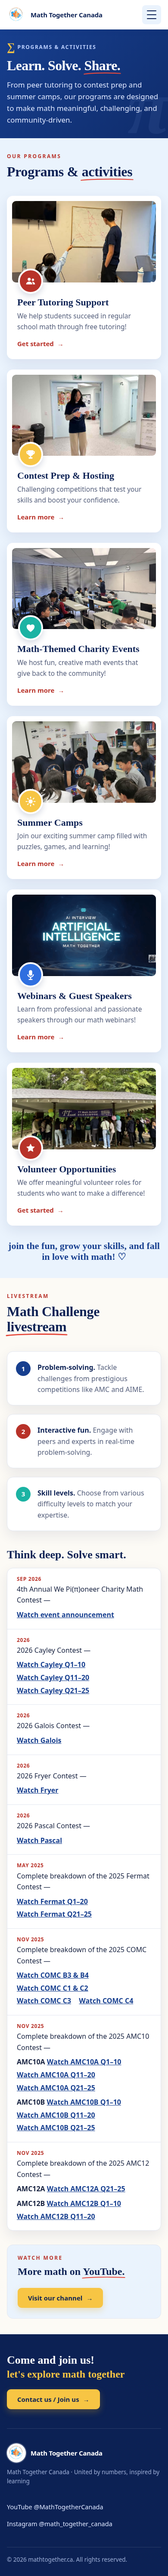
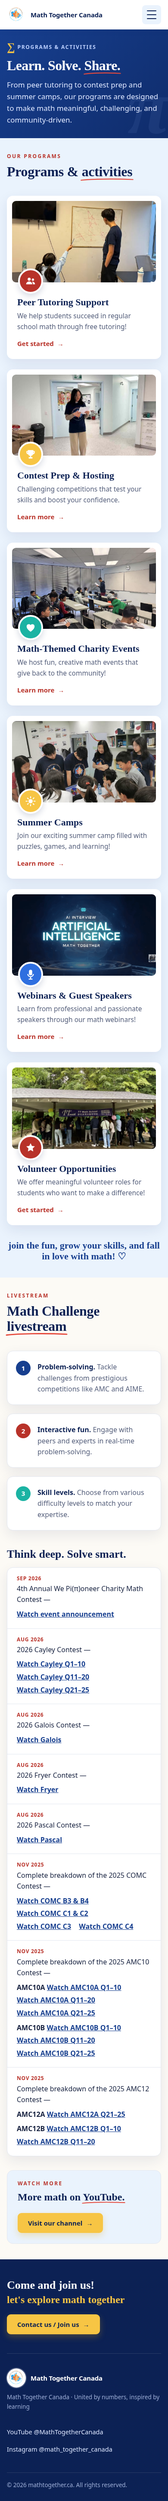
Enlarge homepage labels and update contest recordings and dates

Changed region(s): [[0.0308, 0.0, 0.9538, 0.9974]]

diff --git a/programs.html b/programs.html
@@ -338,7 +338,7 @@
       </div>
      </li>
      <li id="session-cayley-2026" data-video-status="owner-confirmed">
-      <span><time datetime="2026">2026</time></span>
+      <span><time datetime="2026-08">Aug 2026</time></span>
       <div class="session-content">
       2026 Cayley Contest —
        <div class="session-video-links">
@@ -351,7 +351,7 @@
       </div>
      </li>
      <li id="session-galois-2026" data-video-status="owner-confirmed">
-      <span><time datetime="2026">2026</time></span>
+      <span><time datetime="2026-08">Aug 2026</time></span>
       <div class="session-content">
       2026 Galois Contest —
        <div class="session-video-links">
@@ -362,7 +362,7 @@
       </div>
      </li>
      <li id="session-fryer-2026" data-video-status="owner-confirmed">
-      <span><time datetime="2026">2026</time></span>
+      <span><time datetime="2026-08">Aug 2026</time></span>
       <div class="session-content">
       2026 Fryer Contest —
        <div class="session-video-links">
@@ -373,24 +373,12 @@
       </div>
      </li>
      <li id="session-pascal-2026" data-video-status="owner-confirmed">
-      <span><time datetime="2026">2026</time></span>
+      <span><time datetime="2026-08">Aug 2026</time></span>
       <div class="session-content">
       2026 Pascal Contest —
        <div class="session-video-links">
         <p>
          <a href="https://www.youtube.com/watch?v=CUvSTc-RhGc" target="_blank" rel="noopener noreferrer" aria-label="Watch Pascal (opens in a new tab)">Watch Pascal</a>
-        </p>
-       </div>
-      </div>
-     </li>
-     <li id="session-fermat-2025" data-video-status="owner-confirmed">
-      <span><time datetime="2025-05">May 2025</time></span>
-      <div class="session-content">
-      Complete breakdown of the 2025 Fermat Contest —
-       <div class="session-video-links">
-        <p>
-         <a href="https://www.youtube.com/watch?v=a3Yr2WHDnII" target="_blank" rel="noopener noreferrer" aria-label="Watch Fermat Q1–20 (opens in a new tab)">Watch Fermat Q1–20</a>
-         <a href="https://www.youtube.com/watch?v=It0yMNFz8u8" target="_blank" rel="noopener noreferrer" aria-label="Watch Fermat Q21–25 (opens in a new tab)">Watch Fermat Q21–25</a>
         </p>
        </div>
       </div>

diff --git a/home.css b/home.css
@@ -227,3 +227,12 @@ linear-gradient(145deg,#173f8f,#0f2c6b);background-size:28px 28px;color:#fff}
 @media (max-width: 600px) {
   .home-faq { padding-top: 44px; padding-bottom: 48px; }
 }
+
+/* Homepage section labels share the scale of the section headings. */
+.home-page main .kicker, .home-page main .home-kicker {
+  font-size: clamp(32px, 3.6vw, 44px);
+  line-height: 1.15;
+  letter-spacing: .01em;
+  overflow-wrap: break-word;
+}
+.home-latest-head > div, .home-faq .section-head > div { min-width: 0; }

diff --git a/tests/content_check.py b/tests/content_check.py
@@ -113,12 +113,13 @@ for name, expected in expected_bios.items():
 
 sessions_old = original('programs.html').select('.sessions li')
 sessions_new = pages['programs.html'].select('.sessions > li')
-assert len(sessions_old) == 9 and len(sessions_new) == 9
-# Only the four sessions explicitly removed by the user may be removed.
+assert len(sessions_old) == 9 and len(sessions_new) == 8
+# Only the five sessions explicitly removed by the user may be removed.
 removed_descriptions = [
     'Community discussion after the Math Kangaroo Contest, with CMO/CJMO qualifiers',
     'Interactive Q&A session: your burning questions, answered by math experts',
     'Complete breakdown of the 2024 AMC10A Contest',
+    'Complete breakdown of the 2025 Fermat Contest',
     'Waterloo Pascal & Fermat solutions, before official answers are out',
 ]
 retained_descriptions = []
@@ -126,12 +127,12 @@ for old in sessions_old:
     description = ''.join(str(t) for t in old.find_all(string=True, recursive=False)).strip().rstrip('—').strip()
     if description not in removed_descriptions:
         retained_descriptions.append(description)
-assert len(retained_descriptions) == 5
+assert len(retained_descriptions) == 4
 for description in retained_descriptions:
     assert any(description in text(session) for session in sessions_new), description
 for removed in removed_descriptions:
     assert removed not in text(pages['programs.html'])
-assert not pages['programs.html'].select('#session-kangaroo-2025, #session-questions-2025, #session-amc10a-2024, #session-waterloo-2025, .sessions .recording-pending')
+assert not pages['programs.html'].select('#session-kangaroo-2025, #session-questions-2025, #session-amc10a-2024, #session-waterloo-2025, #session-fermat-2025, .sessions .recording-pending')
 for session in sessions_new:
     assert session.select_one('time[datetime]')
     assert session.select('a'), session['id']
@@ -146,9 +147,6 @@ expected_comc = ['9343O-spIAI', '24KYT2FrM_Q', 'WeVz3kbnq4U', 'kObBbe_cfIE']
 expected_amc10 = ['WFVfabjtnb4', 'GCJ6smMF7io', '2AHhJ-EjRn4', 'quRP3FsrB6k', 'TiIWCAKGZQg', 'VqWHUufAXvs']
 assert [a['href'] for a in pages['programs.html'].select('#session-comc-2025 a')] == ['https://www.youtube.com/watch?v='+video for video in expected_comc]
 assert [a['href'] for a in pages['programs.html'].select('#session-amc10-2025 a')] == ['https://www.youtube.com/watch?v='+video for video in expected_amc10]
-expected_fermat = ['a3Yr2WHDnII', 'It0yMNFz8u8']
-for session_id in ['session-fermat-2025']:
-    assert [a['href'] for a in pages['programs.html'].select('#'+session_id+' a')] == ['https://www.youtube.com/watch?v='+video for video in expected_fermat]
 new_sessions = {
     'session-cayley-2026': ['v-AzSSLHm98', 'UXjvfT29EQA', 'V7MscLlK4pI'],
     'session-galois-2026': ['3QLrRolXlAw'],
@@ -159,8 +157,8 @@ for session_id, videos in new_sessions.items():
     session = pages['programs.html'].select_one('#'+session_id)
     assert session is not None, session_id
     assert [a['href'] for a in session.select('a')] == ['https://www.youtube.com/watch?v='+video for video in videos]
-    assert session.select_one('time')['datetime'] == '2026', 'Do not invent a month for the new 2026 recordings'
-    assert text(session.select_one('time')) == '2026'
+    assert session.select_one('time')['datetime'] == '2026-08', 'The owner supplied August 2026 for these recordings'
+    assert text(session.select_one('time')) == 'Aug 2026'
 urls = [a['href'] for session in sessions_new for a in session.select('a')]
 assert len(urls) == len(set(urls)), 'Duplicate recording destinations'
 expected_amc12 = ['nXs682bcsNQ', 'MeyLmhwl-FA', 'PeSHSVGMpNI']
@@ -187,4 +185,4 @@ ordered = sorted(data, key=lambda s:s['sort_name'].casefold())
 assert [s['data-supporter-id'] for s in supporters] == [s['id'] for s in ordered]
 assert len({s['id'] for s in data}) == 6
 subprocess.run(['python3', 'scripts/render_supporters.py', '--check'], cwd=root, check=True)
-print('PASS: local files/anchors, navigation, FAQ preservation, profile text/photos/positions, 17 News records and date precision, nine confirmed sessions, six supporters and homepage statistics.')
+print('PASS: local files/anchors, navigation, FAQ preservation, profile text/photos/positions, 17 News records and date precision, eight confirmed sessions, six supporters and homepage statistics.')

diff --git a/tests/browser_check.py b/tests/browser_check.py
@@ -42,6 +42,7 @@ with sync_playwright() as p:
     recaps.locator('summary').focus();page.keyboard.press('Enter');assert recaps.get_attribute('open') is not None
     assert recaps.locator('a').count()==2
     page.keyboard.press('Space');assert recaps.get_attribute('open') is None
+    assert page.locator('#about .kicker, #featured-event .home-kicker, #our-programs .home-kicker, #latest-stories .home-kicker, #faq .kicker').evaluate_all('(es)=>es.length===5&&es.every(e=>parseFloat(getComputedStyle(e).fontSize)>=parseFloat(getComputedStyle(e.closest("section").querySelector("h2")).fontSize))'), (width,'Red section labels must be at least as large as the section headings')
     assert page.locator('#faq details').count()==5
     summary=page.locator('#faq summary').first
     summary.focus();page.keyboard.press('Enter');assert page.locator('#faq details').first.get_attribute('open') is not None
@@ -66,17 +67,17 @@ with sync_playwright() as p:
    if name in ['programs','news','team','get-involved']:
     assert page.locator('.page-hero-lede').evaluate('(e)=>Math.abs(e.getBoundingClientRect().width-e.closest(".page-hero-in").getBoundingClientRect().width)<1')
    if name=='programs':
-    assert page.locator('.sessions > li').count()==9
+    assert page.locator('.sessions > li').count()==8
     assert page.locator('#session-comc-2025 a').count()==4
     assert page.locator('#session-amc10-2025 a').count()==6
     assert page.locator('#session-amc12-2025 a').count()==3
-    assert page.locator('#session-fermat-2025 a').count()==2
     assert page.locator('#session-cayley-2026 a').count()==3
+    assert page.locator('#session-cayley-2026 time, #session-galois-2026 time, #session-fryer-2026 time, #session-pascal-2026 time').evaluate_all('(es)=>es.length===4&&es.every(e=>e.dateTime==="2026-08"&&e.textContent==="Aug 2026")')
     for session_id in ['session-galois-2026','session-fryer-2026','session-pascal-2026']:
      assert page.locator('#'+session_id+' a').count()==1
     assert page.locator('.sessions a').evaluate_all('(es)=>es.every(a=>a.target==="_blank"&&a.rel.includes("noopener")&&a.rel.includes("noreferrer"))')
     assert page.locator('#session-charity-2026 .session-content').evaluate('''(e)=>{const ranges=Array.from(e.childNodes).filter(n=>n.nodeType===Node.TEXT_NODE&&n.textContent.trim()).flatMap(n=>{const r=document.createRange();r.selectNodeContents(n);return Array.from(r.getClientRects());}).filter(r=>r.width>0&&r.height>0);return ranges.length>0&&e.querySelector('a').getBoundingClientRect().top>=Math.max(...ranges.map(r=>r.bottom));}'''), (width,'Charity recording link must start below its description')
-    assert not page.locator('#session-kangaroo-2025, #session-questions-2025, #session-amc10a-2024, #session-waterloo-2025, .sessions .recording-pending').count()
+    assert not page.locator('#session-kangaroo-2025, #session-questions-2025, #session-amc10a-2024, #session-waterloo-2025, #session-fermat-2025, .sessions .recording-pending').count()
     assert page.locator('.sessions a').evaluate_all('(es)=>es.every(a=>!a.href.includes("@MathTogetherCanada"))')
     assert page.locator('.session-content a').evaluate_all('(es)=>es.every(e=>{const r=e.getBoundingClientRect();return r.width>0&&r.left>=0&&r.right<=innerWidth;} )')
 

diff --git a/docs/video-link-audit.md b/docs/video-link-audit.md
@@ -4,23 +4,23 @@ Video actions open in a new tab using `target="_blank"` and `rel="noopener noref
 
 Reviewed on 2 Nov 2026 against `main` at `c0f98861a1978cc51f1f9540e3e53728d5742e93`.
 
-The official channel is [Math Together / @MathTogetherCanada](https://www.youtube.com/@MathTogetherCanada), also identified by YouTube's indexed channel result as [UCOPT02TMkuXp69XkobHyKDA](https://www.youtube.com/channel/UCOPT02TMkuXp69XkobHyKDA). Repository history back to the initial site uses the same original URLs. On 2 Nov 2026 the site owner supplied and confirmed the COMC, AMC10, Fermat, AMC12, Summer Camp Students’ Voices and Yingshan Xiao recording destinations. The owner confirmed the Kangaroo discussion and interactive Q&A content do not exist and requested removal of the 2024 AMC10A entry and the duplicate 2025 Waterloo Pascal/Fermat entry; all four were removed. The dedicated 2025 Fermat session remains. The owner also supplied six recordings for four new 2026 sessions: Cayley, Galois, Fryer and Pascal.
+The official channel is [Math Together / @MathTogetherCanada](https://www.youtube.com/@MathTogetherCanada), also identified by YouTube's indexed channel result as [UCOPT02TMkuXp69XkobHyKDA](https://www.youtube.com/channel/UCOPT02TMkuXp69XkobHyKDA). Repository history back to the initial site uses the same original URLs. On 2 Nov 2026 the site owner supplied and confirmed the COMC, AMC10, Fermat, AMC12, Summer Camp Students’ Voices and Yingshan Xiao recording destinations. The owner confirmed the Kangaroo discussion and interactive Q&A content do not exist and requested removal of the 2024 AMC10A entry, the duplicate 2025 Waterloo Pascal/Fermat entry and the dedicated 2025 Fermat session; all five were removed. The owner also supplied six recordings for four new 2026 sessions: Cayley, Galois, Fryer and Pascal.
 
-YouTube watch-page titles and indexed YouTube descriptions were checked. The official channel's Videos/Streams listing and oEmbed endpoints were throttled by the browsing service. Titles were available for the existing direct links, but playback, complete transcripts, and most exact publication dates were unavailable. A title match is not a claim that the linked video covers an entire contest. Partial coverage is explicit in the action label. Original date labels for the five retained event/session entries are kept and formatted; the four newly added 2026 sessions use year-only labels because no publication months were supplied or verified. These labels are not newly asserted video publication dates. Owner confirmation establishes the supplied recordings, while watch-page titles independently confirm the contest and question ranges. No upload dates were inferred from the supplied URLs.
+YouTube watch-page titles and indexed YouTube descriptions were checked. The official channel's Videos/Streams listing and oEmbed endpoints were throttled by the browsing service. Titles were available for the existing direct links, but playback, complete transcripts, and most exact publication dates were unavailable. A title match is not a claim that the linked video covers an entire contest. Partial coverage is explicit in the action label. Original date labels for the four retained event/session entries are kept and formatted; the owner supplied August 2026 for Cayley, Galois, Fryer and Pascal, so these four sessions display Aug 2026 with month-level machine dates. These labels are not newly asserted video publication dates. Owner confirmation establishes the supplied recordings, while watch-page titles independently confirm the contest and question ranges. No upload dates were inferred from the supplied URLs.
 
 ## Every Programs / Livestream entry
 
 | Entry (original session label) | Old URL | Proposed / implemented URL | Verification status and action |
 |---|---|---|---|
 | 4th Annual We Pi(π)oneer Charity Math Contest — Sep 2026 | https://youtu.be/YcqCzscEtQo | https://youtu.be/YcqCzscEtQo | Retained existing direct link. YouTube title is **We Pioneer 4th Charity Math Contest Coming Soon！** It is an announcement, so the action now says **Watch event announcement**. The action occupies its own line beneath the description, using the shared video-links layout. Exact upload date/playback not independently verified. |
-| Complete breakdown of the 2025 Fermat Contest — May 2025 | https://youtu.be/TA2mtv_Prxc | Q1–20: https://www.youtube.com/watch?v=a3Yr2WHDnII <br> Q21–25: https://www.youtube.com/watch?v=It0yMNFz8u8 | Corrected the old Euclid-content mismatch. Owner supplied both Fermat destinations; YouTube titles confirm **2025 Fermat Contest Questions 1 - 20** and **2025 Fermat Contest Questions 21 - 25**. Both question ranges are labeled explicitly. Exact publication dates unavailable; existing May label retained. |
+| Complete breakdown of the 2025 Fermat Contest — May 2025 | https://youtu.be/TA2mtv_Prxc | Removed at owner request | The owner requested removal of the complete 2025 Fermat session. Neither of its two recording links is displayed on the Programs page. Previously verified destinations remain in the historical audit below. |
 | Complete breakdown of the 2025 COMC Contest — Nov 2025 | https://youtu.be/GCJ6smMF7io | B3 & B4: https://www.youtube.com/watch?v=9343O-spIAI <br> C1 & C2: https://www.youtube.com/watch?v=24KYT2FrM_Q <br> C3: https://www.youtube.com/watch?v=WeVz3kbnq4U <br> C4: https://www.youtube.com/watch?v=kObBbe_cfIE | Owner supplied all four recordings on 2 Nov 2026 and confirmed the first recording covers **B3 & B4**, matching the YouTube title. All four COMC 2025 question ranges are confirmed. Original URL is AMC10A Q11–20 and now belongs under AMC10A. No fabricated publication dates. |
 | Complete breakdown of the 2025 AMC10 Contest — Nov 2025 | https://youtu.be/MeyLmhwl-FA | AMC10A Q1–10: https://www.youtube.com/watch?v=WFVfabjtnb4 <br> AMC10A Q11–20: https://www.youtube.com/watch?v=GCJ6smMF7io <br> AMC10A Q21–25: https://www.youtube.com/watch?v=2AHhJ-EjRn4 <br> AMC10B Q1–10: https://www.youtube.com/watch?v=quRP3FsrB6k <br> AMC10B Q11–20: https://www.youtube.com/watch?v=TiIWCAKGZQg <br> AMC10B Q21–25: https://www.youtube.com/watch?v=VqWHUufAXvs | Owner supplied and confirmed all six recordings on 2 Nov 2026; YouTube titles independently match both complete question ranges. Rendered in clearly labeled AMC10A and AMC10B groups. Original URL belongs to AMC12B and remains under that entry. Publication dates not invented. |
 | Complete breakdown of the 2025 AMC12 Contest — Nov 2025 | https://www.youtube.com/@MathTogetherCanada | AMC12A Q21–25: https://www.youtube.com/watch?v=nXs682bcsNQ <br> AMC12B Q1–10: https://www.youtube.com/watch?v=MeyLmhwl-FA <br> AMC12B Q11–20: https://www.youtube.com/watch?v=PeSHSVGMpNI | Owner supplied all three destinations; YouTube titles confirm the exact contest variants and question ranges. Separate AMC12A and AMC12B groups explicitly label the available coverage. No AMC12A Q1–20 or AMC12B Q21–25 destination was invented or implied. Original Nov label retained; exact upload dates unavailable. |
 | Community discussion after the Math Kangaroo Contest, with CMO/CJMO qualifiers — Mar 2025 | https://www.youtube.com/@MathTogetherCanada | Removed at owner request | On 2 Nov 2026 the owner confirmed this content does not exist. The complete session entry was removed, rather than retaining a channel placeholder or pending recording claim. Original source date was `2025-03-23`. |
 | Interactive Q&A session: your burning questions, answered by math experts — Apr 2025 | https://youtu.be/hiDEBL1ieIk | Removed at owner request | On 2 Nov 2026 the owner confirmed this content does not exist. The complete session entry was removed. Its original URL is AMC10A Part 4, not Q&A. Original source date was `2025-04-28`. |
 | Complete breakdown of the 2024 AMC10A Contest — Jun 2025 | https://www.youtube.com/@MathTogetherCanada | Removed at owner request | The owner’s latest instruction explicitly removes this complete session entry. This supersedes the earlier date clarification and the interim verified series-start link. No replacement date or recording is displayed. |
-| Waterloo Pascal & Fermat solutions, before official answers are out — 2025 | https://youtu.be/a3Yr2WHDnII | Removed at owner request | The owner requested removal of this duplicate 2025 Waterloo/Pascal session. The dedicated 2025 Fermat session remains with its confirmed Q1–20 and Q21–25 links. |
+| Waterloo Pascal & Fermat solutions, before official answers are out — 2025 | https://youtu.be/a3Yr2WHDnII | Removed at owner request | The owner requested removal of this duplicate 2025 Waterloo/Pascal session. The dedicated 2025 Fermat session was also removed at the owner’s request. |
 
 ## Owner-confirmed COMC and AMC10 recordings
 
@@ -39,11 +39,11 @@ The site owner supplied these ten official recording URLs on 2 Nov 2026. Each UR
 | AMC10B Q11–20 | https://www.youtube.com/watch?v=TiIWCAKGZQg | **2025 AMC 10B \| Q11-20 Step by Step Solutions**; owner and title confirmed. |
 | AMC10B Q21–25 | https://www.youtube.com/watch?v=VqWHUufAXvs | **2025 AMC 10B \| Q21-25 Step by Step Solutions**; owner and title confirmed. |
 
-All nine original session entries are accounted for in the preceding old/new audit. Five remain after four owner-requested removals: Kangaroo discussion, interactive Q&A, 2024 AMC10A and the duplicate 2025 Waterloo/Pascal entry. Four new 2026 sessions bring the live total to nine sessions containing 22 direct-video actions and 22 unique destinations. The dedicated 2025 Fermat entry and all ten confirmed COMC/AMC10 URLs remain unchanged.
+All nine original session entries are accounted for in the preceding old/new audit. Four remain after five owner-requested removals: Kangaroo discussion, interactive Q&A, 2024 AMC10A, the duplicate 2025 Waterloo/Pascal entry and the dedicated 2025 Fermat entry. Four new 2026 sessions bring the live total to eight sessions containing 20 direct-video actions and 20 unique destinations. All ten confirmed COMC/AMC10 URLs remain unchanged.
 
 ## New 2026 sessions
 
-The owner supplied all six exact URLs below. Each equivalent YouTube short-link redirect was opened and returned the matching title. The four sessions are listed in the requested order after the existing 2026 charity event: Cayley, Galois, Fryer, Pascal. This order does not infer chronology within the year. All four display only `<time datetime="2026">2026</time>`; no month or upload date was invented. All Watch links open in a new tab with `target="_blank"`, `rel="noopener noreferrer"` and accessible new-tab labels.
+The owner supplied all six exact URLs below. Each equivalent YouTube short-link redirect returned the matching title. The four sessions are listed after the existing 2026 charity event: Cayley, Galois, Fryer, Pascal. The owner confirmed August 2026 for all four; each now displays `<time datetime="2026-08">Aug 2026</time>`. No day number is invented and this is not an independently verified upload date. All Watch links open in a new tab with secure external-link attributes and accessible new-tab labels.
 
 | Session / coverage | Old URL | Supplied / implemented URL | YouTube title / verification |
 |---|---|---|---|
@@ -71,8 +71,8 @@ The owner supplied these destinations. YouTube page titles confirm the visible s
 
 | Recording | Supplied / implemented URL | YouTube title / verification |
 |---|---|---|
-| Fermat Q1–20 | https://www.youtube.com/watch?v=a3Yr2WHDnII | **2025 Fermat Contest Questions 1 - 20**; title and existing Math Together uploader evidence match. |
-| Fermat Q21–25 | https://www.youtube.com/watch?v=It0yMNFz8u8 | **2025 Fermat Contest Questions 21 - 25**; owner and title confirmed. |
+| Fermat Q1–20 | https://www.youtube.com/watch?v=a3Yr2WHDnII | **2025 Fermat Contest Questions 1 - 20**; title and existing Math Together uploader evidence match.  Historical verification only; removed from Programs at owner request. |
+| Fermat Q21–25 | https://www.youtube.com/watch?v=It0yMNFz8u8 | **2025 Fermat Contest Questions 21 - 25**; owner and title confirmed.  Historical verification only; removed from Programs at owner request. |
 | AMC12A Q21–25 | https://www.youtube.com/watch?v=nXs682bcsNQ | **2025 AMC 12A: Question 21-25**; only this question range is labeled. |
 | AMC12B Q1–10 | https://www.youtube.com/watch?v=MeyLmhwl-FA | **2025 AMC 12B \| Q1–10 Step-by-Step with Abhiraj**; owner and title confirmed. |
 | AMC12B Q11–20 | https://www.youtube.com/watch?v=PeSHSVGMpNI | **2025 AMC 12B \| Q11-20 Step-by-Step with Abhiraj**; owner and title confirmed. |
@@ -86,6 +86,6 @@ The owner supplied these destinations. YouTube page titles confirm the visible s
 
 ## 核实状态与测试限制
 
-本轮视频链接问题已按用户提供的链接和最终指示处理。Fermat、AMC12、Summer Camp Students’ Voices 与 Yingshan Xiao 访谈均使用已确认的指定链接；COMC 首条题号已确认为 B3 & B4。2024 AMC10A 条目与重复的 2025 Waterloo/Pascal 条目已按最新指示删除；独立的 2025 Fermat 条目保留。新增的四条 2026 年 Cayley、Galois、Fryer、Pascal 记录均采用用户提供的准确链接，YouTube 标题与相应题号范围一致。原有日期问题不再适用。没有新增待补充录像请求，也没有推测未提供的题号或播放列表。
+本轮视频链接问题已按用户提供的链接和最终指示处理。2025 Fermat、2024 AMC10A、重复的 2025 Waterloo/Pascal 及两条不存在的讨论/问答记录均已移除。当前八条记录包含 20 个独立视频链接；四条新增 2026 年 Cayley、Galois、Fryer、Pascal 记录统一采用用户确认的 Aug 2026，机器日期为 2026-08，不补造日号。COMC 首条题号为 B3 & B4；其余题号与访谈/夏令营链接保持已确认内容。没有新增待补充录像请求。
 
-YouTube 页面标题可核对视频主题，但浏览服务未提供完整播放、字幕或多数精确上传日期。页面保留已有日期精度，未知月份仍不补造；本次未将活动日期改称视频发布日期。
+YouTube 页面标题可核对视频主题，但浏览服务未提供完整播放、字幕或多数精确上传日期。页面保留已有日期精度；新增八月来自用户确认，未补造日号，也未将活动日期改称视频发布日期。

diff --git a/tests/README.md b/tests/README.md
@@ -14,7 +14,7 @@ node --check app.js
 node --check support.js
 ```
 
-`content_check.py` compares against `origin/main`; fetch that reference before running it. It checks local files and anchors, primary navigation, exact FAQ questions/answers, exact replacement biographies, the other 13 unchanged profiles, preserved photos/positions, all 17 News records and precise date metadata, five retained session descriptions and four new 2026 contest sessions (four older sessions removed with user authorization), alphabetized supporters and homepage statistics. Approved biography, supporter, date presentation and video link changes are checked separately from preservation.
+`content_check.py` compares against `origin/main`; fetch that reference before running it. It checks local files and anchors, primary navigation, exact FAQ questions/answers, exact replacement biographies, the other 13 unchanged profiles, preserved photos/positions, all 17 News records and precise date metadata, four retained session descriptions and four new 2026 contest sessions (five older sessions removed with user authorization), alphabetized supporters and homepage statistics. Approved biography, supporter, date presentation and video link changes are checked separately from preservation.
 
 `seo_check.py` checks unique titles/descriptions, canonical URLs, Open Graph and Twitter metadata, existing social image files/dimensions, JSON-LD syntax, legacy `noindex` metadata, sitemap URLs and robots.txt. It does not claim a production preview crawl occurred.
 
@@ -31,7 +31,7 @@ python3 tests/browser_check.py
 python3 tests/latest_news_check.py
 ```
 
-Browser checks cover five primary pages at 375, 390, 768 and 1440 pixels, including horizontal overflow, navigation controls, homepage layout, centered statistic values, left-aligned FAQ, keyboard FAQ accordion behavior, historical recap links and dialogs, equal supporter containers and responsive column counts, team flip-card keyboard behavior and scrollable biographies, photographs, News links, legacy redirects and FAQ without JavaScript. Use `TEST_PAGES=programs python3 tests/browser_check.py` for a targeted Programs rerun. Ten desktop/mobile screenshots are saved outside the checkout to `/tmp/mathtogether-screenshots`; override with `SCREENSHOT_DIR`.
+Browser checks cover five primary pages at 375, 390, 768 and 1440 pixels, including horizontal overflow, navigation controls, homepage layout, centered statistic values, enlarged red section labels, left-aligned FAQ, keyboard FAQ accordion behavior, historical recap links and dialogs, equal supporter containers and responsive column counts, team flip-card keyboard behavior and scrollable biographies, photographs, News links, legacy redirects and FAQ without JavaScript. Use `TEST_PAGES=programs python3 tests/browser_check.py` for a targeted Programs rerun. Ten desktop/mobile screenshots are saved outside the checkout to `/tmp/mathtogether-screenshots`; override with `SCREENSHOT_DIR`.
 
 Latest News is generated from `news.html`; see [maintenance and unresolved dates](../docs/news-maintenance.md). The news-specific check covers exact-date sorting independently of source order, year-only source-order fallback, known display months without fabricated sorting precision, date validation, a three-item limit, newer additions without homepage changes, deep links and fetch failure. Visible homepage dates use abbreviated English month-year while retaining machine-readable precision.
 

diff --git a/docs/round-3-review.md b/docs/round-3-review.md
@@ -8,8 +8,8 @@
 - 保留 2026 年精选活动回顾按钮。首页历史回顾入口可展开 2024、2025 年原文章链接；News 移除新增的历史回顾突出区块，维持原有新闻列表布局与全部 17 条文章内容。
 - 保留 TTmath、Citadel，增加四家指定支持机构；依官方英文名称排序，添加不含排名含义的说明。四个新增 logo 已从用户提供的 `logos.zip` 原样接入，未裁剪、重绘或重新编码。桌面和平板每行三家、共两行，手机每行两家；112px 等高容器与原图比例保持不变。BLACK BELT WORLD 的白色字样使用深色底以确保清晰。六家机构及两处机构统计共用 `data/supporters.json`，通过 `scripts/render_supporters.py` 生成静态内容。
 - 按原文更新 Perry、Kaylyn、Xuanyi(Prince) 的姓名和两段简介，照片、职位及其余 13 名成员保持不变。较长简介支持键盘滚动。
-- 按最终澄清显示 **850+ Students Reached**；社区伙伴统计核实为 **6**。首页每个数字居中置于说明文字上方，保留装饰图标；FAQ 使用与其他首页区块相同的左边缘和左对齐标题。
-- 审核全部九条原有 Programs/Livestream 记录；按用户确认移除 Math Kangaroo 赛后讨论、Interactive Q&A、2024 AMC10A 及重复的 2025 Waterloo Pascal/Fermat 条目，独立的 2025 Fermat 两部分讲解仍保留。新增 2026 Cayley（三部分）、Galois、Fryer、Pascal，现共九条记录、22 个独立视频链接；未知月份只显示 2026。慈善竞赛 Watch 链接与其他讲解一样另起一行。COMC、AMC10、Fermat 和 AMC12 的链接保持核实范围标签。News 夏令营系列有五条原题视频，Yingshan 访谈有两集并保留 Part 1 的五秒参数；May 2025 标签已获用户确认。完整 [旧/新链接与核实表](video-link-audit.md)记录所有原条目和新增视频。
+- 按最终澄清显示 **850+ Students Reached**；社区伙伴统计核实为 **6**。首页每个数字居中置于说明文字上方，保留装饰图标；FAQ 使用与其他首页区块相同的左边缘和左对齐标题。 首页 About、Featured Event、Our Programs、Latest News、FAQ 五处红字标签均不小于对应主标题，并保留响应式换行。
+- 审核全部九条原有 Programs/Livestream 记录；按用户确认移除五条旧记录，包括 2025 Fermat。当前八条记录、20 个独立视频链接，涵盖 2026 慈善竞赛、Cayley、Galois、Fryer、Pascal 和 2025 COMC、AMC10、AMC12。原先没有月份的四条 2026 记录统一为用户确认的 Aug 2026，机器日期为 2026-08。慈善竞赛 Watch 链接另起一行。News 原有 17 条新闻内容和布局保留，已确认的视频链接继续有效。完整 [旧/新链接与核实表](video-link-audit.md)记录变更。
 - News、Programs、首页新闻日期显示统一为 `Mon YYYY`，保留原有完整日期和排序精度；用户已确认缺少月份或发布日期的内容保留现有信息，不补造。
 - 视频讲解链接（含 News 阅读弹窗）与首页 Watch on YouTube 在新标签页打开，保留当前网站页面；链接包含新标签页的无障碍提示及外链安全属性。
 - 所有九页补齐 production domain 的 SEO、分享元数据；添加 sitemap、robots、favicon 和有用的结构化数据。拟议分享封面尚未发布或用于元数据。

diff --git a/previews/README.md b/previews/README.md
@@ -2,7 +2,7 @@
 
 Full-page Chromium screenshots of this feature branch at 1440px desktop and 390px mobile widths. These are static review images. No merge or deployment has been performed.
 
-The homepage includes the five original FAQs aligned with the left edge of the other sections, centered statistics above their labels, the verified six-supporter count, `850+ Students Reached`, and an expandable entry with direct links to the 2024 and 2025 recaps. News retains its original story-list layout without a highlighted archive section. Get Involved displays six equal-size supporter spaces in alphabetical order: three per row on desktop/tablet and two on mobile, using all original logos. BLACK BELT WORLD's white lettering uses a dark backing for contrast; all spaces have the same dimensions.
+The homepage includes the five original FAQs aligned with the left edge of the other sections, centered statistics above their labels, the verified six-supporter count, `850+ Students Reached`, and an expandable entry with direct links to the 2024 and 2025 recaps. News retains its original story-list layout without a highlighted archive section. Get Involved displays six equal-size supporter spaces in alphabetical order: three per row on desktop/tablet and two on mobile, using all original logos. BLACK BELT WORLD's white lettering uses a dark backing for contrast; all spaces have the same dimensions. Red homepage section labels are at least as large as their corresponding main headings.
 
 Open an image and use GitHub’s **Raw** or **Download** control to view it at full resolution.
 
@@ -16,6 +16,6 @@ Open an image and use GitHub’s **Raw** or **Download** control to view it at f
 
 Home and News screenshots include automatic Latest News: three homepage cards selected from the News source. Exact dates are sorted descending; year-only items retain their source positions within the same year. Four items have no known year and remain outside homepage selection. See [date status](../docs/news-maintenance.md).
 
-Programs has nine sessions, including 2026 Cayley, Galois, Fryer and Pascal, with all 22 video links opening in new tabs. Charity's video link occupies its own line; the duplicate 2025 Waterloo entry is removed while dedicated Fermat recordings remain. News includes five individually titled Summer Camp videos and both Yingshan interview parts. The complete old/new URL table is in [the video audit](../docs/video-link-audit.md). Date labels use abbreviated English month and year while full machine dates and Latest News sorting are preserved; new entries with unknown months show only 2026.
+Programs has eight sessions and 20 video links opening in new tabs. The 2026 Cayley, Galois, Fryer and Pascal dates display owner-confirmed Aug 2026; the 2025 Fermat session is removed. Charity’s video link remains on its own line. News content and its original story-list layout remain unchanged. The complete old/new URL table is in [the video audit](../docs/video-link-audit.md). Original full machine dates are retained where available; no day is invented for month-only labels.
 
 The proposed social-sharing cover remains outside the repository pending approval. Metadata uses the existing approved leadership photograph; see [SEO review and testing limits](../docs/seo-review.md).

diff --git a/docs/news-maintenance.md b/docs/news-maintenance.md
@@ -50,6 +50,6 @@ node --check app.js
 
 News、Programs 和首页 Latest News 的可见日期统一为英文缩写月份与年份，例如 `Sep 2026`。正文中的完整活动日期也通过 `<time datetime="原有完整日期">Sep 2026</time>` 显示；原有完整日期保留在机器可读属性中，排序用的 9 个 `data-date` 值完全不变。已知活动范围的结束日期保留为 `data-end-date`，不把活动日期伪装成发布日期。
 
-仅知道季节与年份的内容显示 `2025 · summer video series`；未确认月份的 Programs Waterloo 条目仍显示 `2025`。没有为这些条目补造月份。已知活动月份但发布日期未确认的三个营地条目保留原有 year-only 排序规则，同时以 `data-display-month="YYYY-MM"` 供首页显示已知月份。
+仅知道季节与年份的新闻显示 `2025 · summer video series`，不补造月份。Programs 的 2026 Cayley、Galois、Fryer、Pascal 已按用户确认显示 Aug 2026；2025 Waterloo 和 Fermat 讲解条目已移除。已知活动月份但发布日期未确认的三个营地条目保留原有 year-only 排序规则，同时以 `data-display-month="YYYY-MM"` 供首页显示已知月份。
 
 首页精选活动下方的历史回顾入口可展开已有的 2024 与 2025 慈善竞赛回顾链接，直接进入 News 对应原文章。News 不新增历史回顾突出区块，保留原新闻列表布局。没有新建或推测往年回顾文章、日期、统计数据或 URL。
